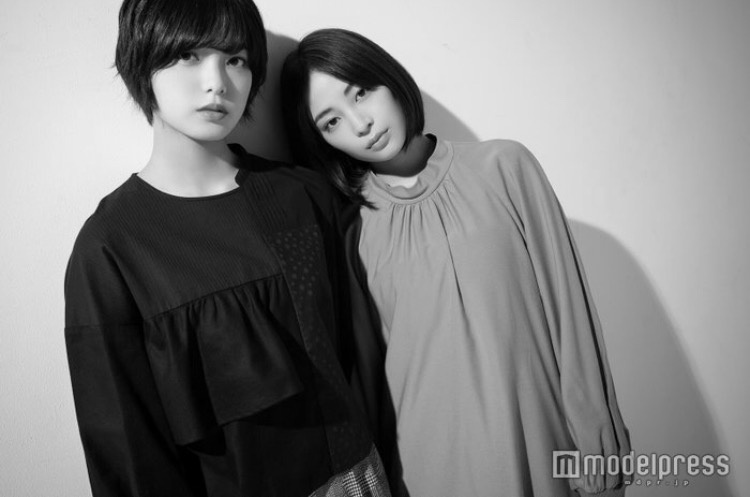
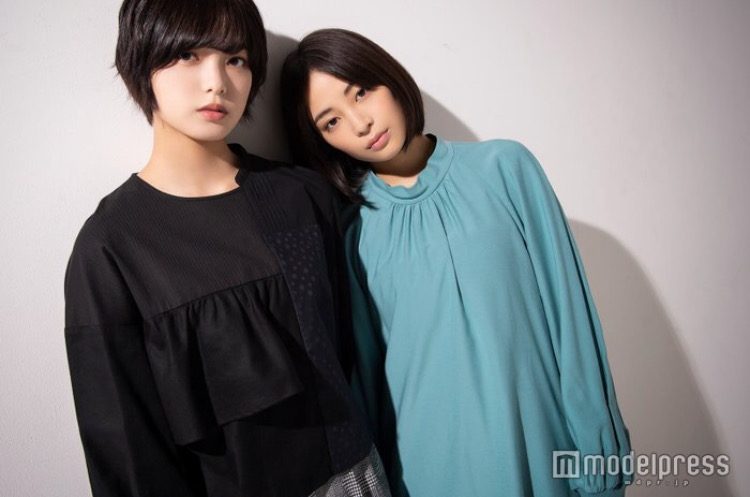
test

Changed region(s): [[0.3987, 0.1207, 0.8587, 1.0], [0.184, 0.0905, 0.3373, 0.4225]]

diff --git a/1.py b/1.py
@@ -1,7 +1,7 @@
 import numpy as np
 import cv2
 
-img = cv2.imread('1.jpg',0)
+img = cv2.imread('1.jpg',1)
 cv2.imshow('test',img)
 k = cv2.waitKey(0) & 0xFF
 if k == 27: #wait for ESC key to exit
